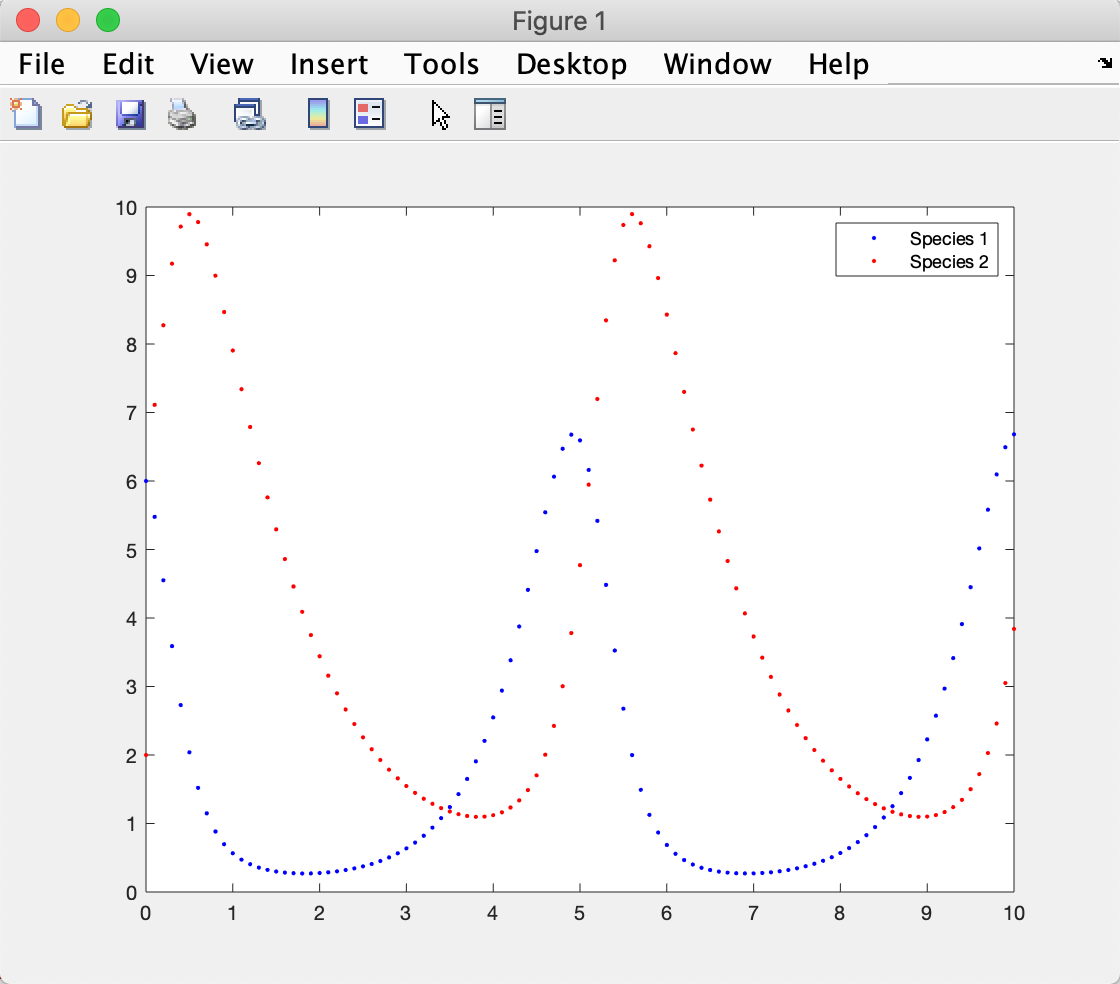
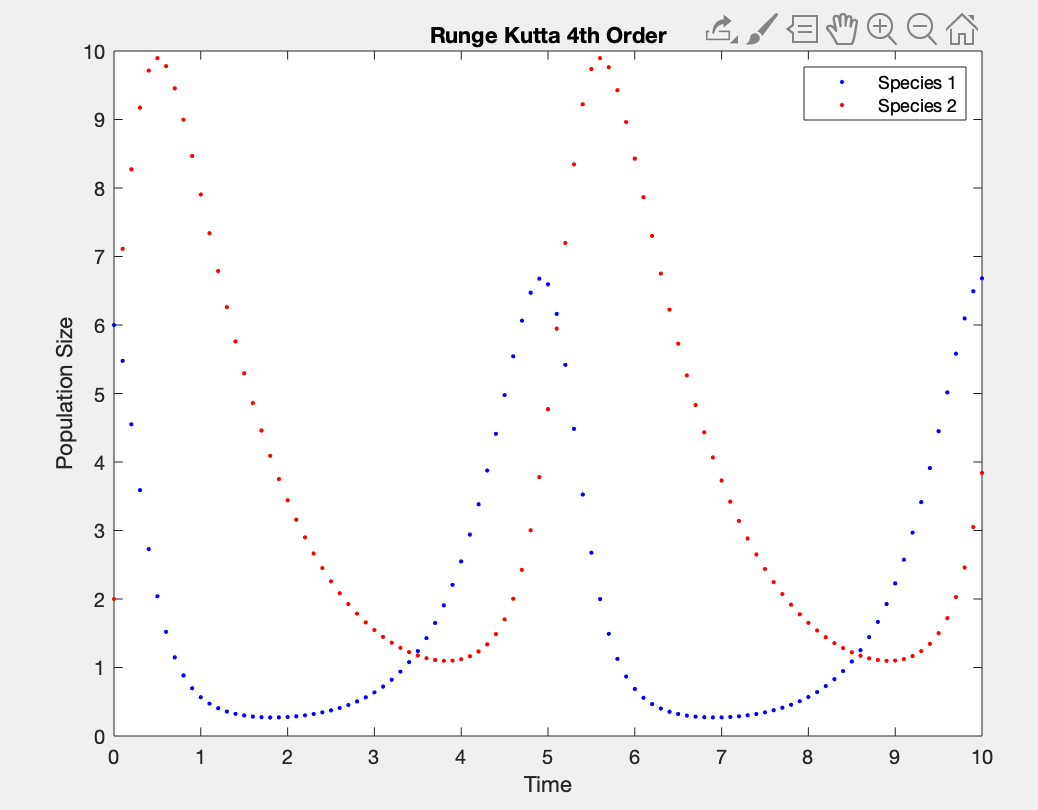
example models

diff --git a/modified_euler_model.m b/modified_euler_model.m
@@ -16,4 +16,7 @@ function modified_euler_model(func, tspan, y0, n)
         plot(t, y1, 'b.', t, y2, 'r.'); hold on
     end
     hold off
-    legend('Species 1', 'Species 2')
+    legend('Species 1', 'Species 2');
+    title("Modified Euler's Method");
+    xlabel("Time");
+    ylabel("Population Size");

diff --git a/rk4_model.m b/rk4_model.m
@@ -16,4 +16,7 @@ function rk4_model(func, tspan, y0, n)
         plot(t, y1, 'b.', t, y2, 'r.'); hold on
     end
     hold off
-    legend('Species 1', 'Species 2')
+    legend('Species 1', 'Species 2');
+    title("Runge Kutta 4th Order");
+    xlabel("Time");
+    ylabel("Population Size");

diff --git a/euler_model.m b/euler_model.m
@@ -15,4 +15,7 @@ function euler_model(func, tspan, y0, n)
         plot(t, y1, 'b.', t, y2, 'r.'); hold on
     end
     hold off
-    legend('Species 1', 'Species 2')
+    legend('Species 1', 'Species 2');
+    title("Euler's Method");
+    xlabel("Time");
+    ylabel("Population Size");
